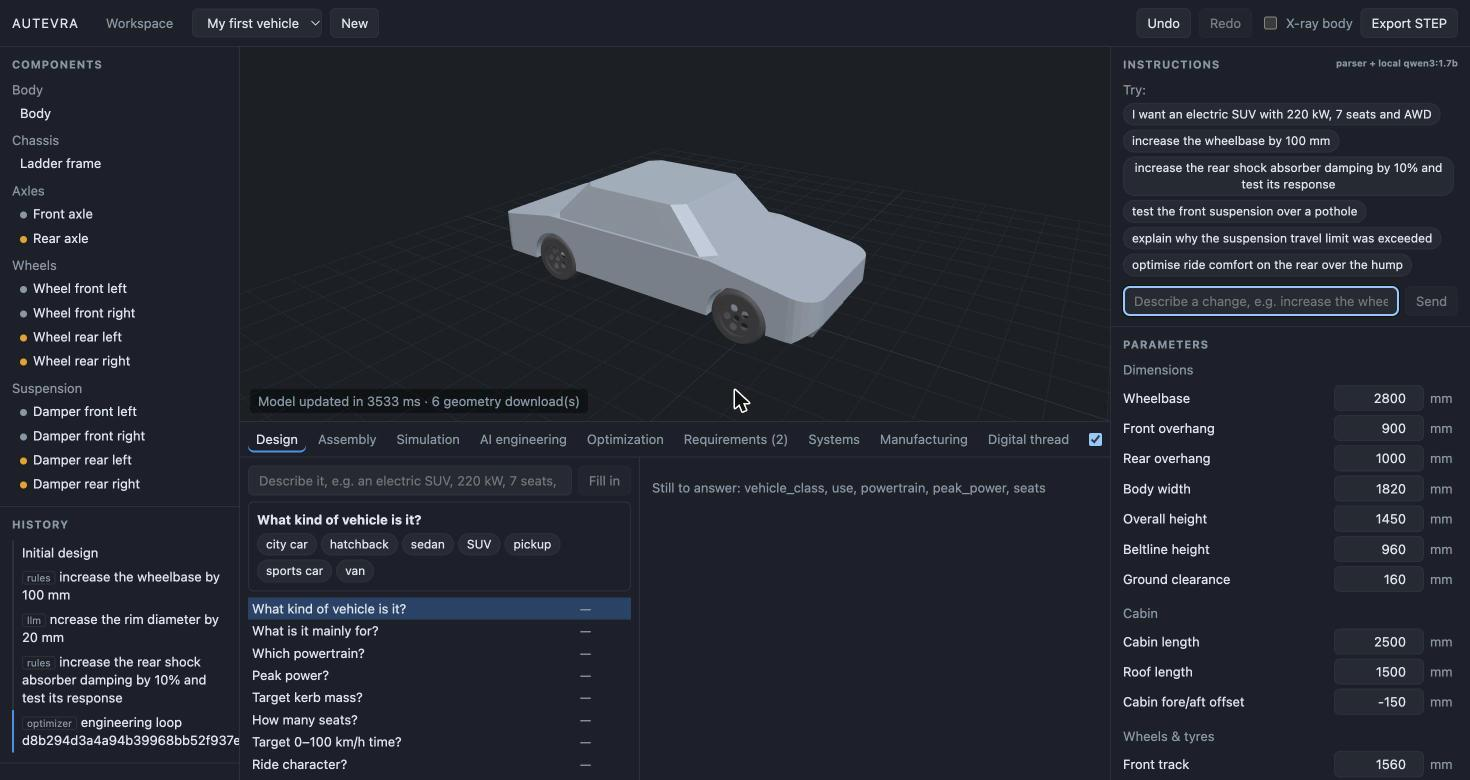
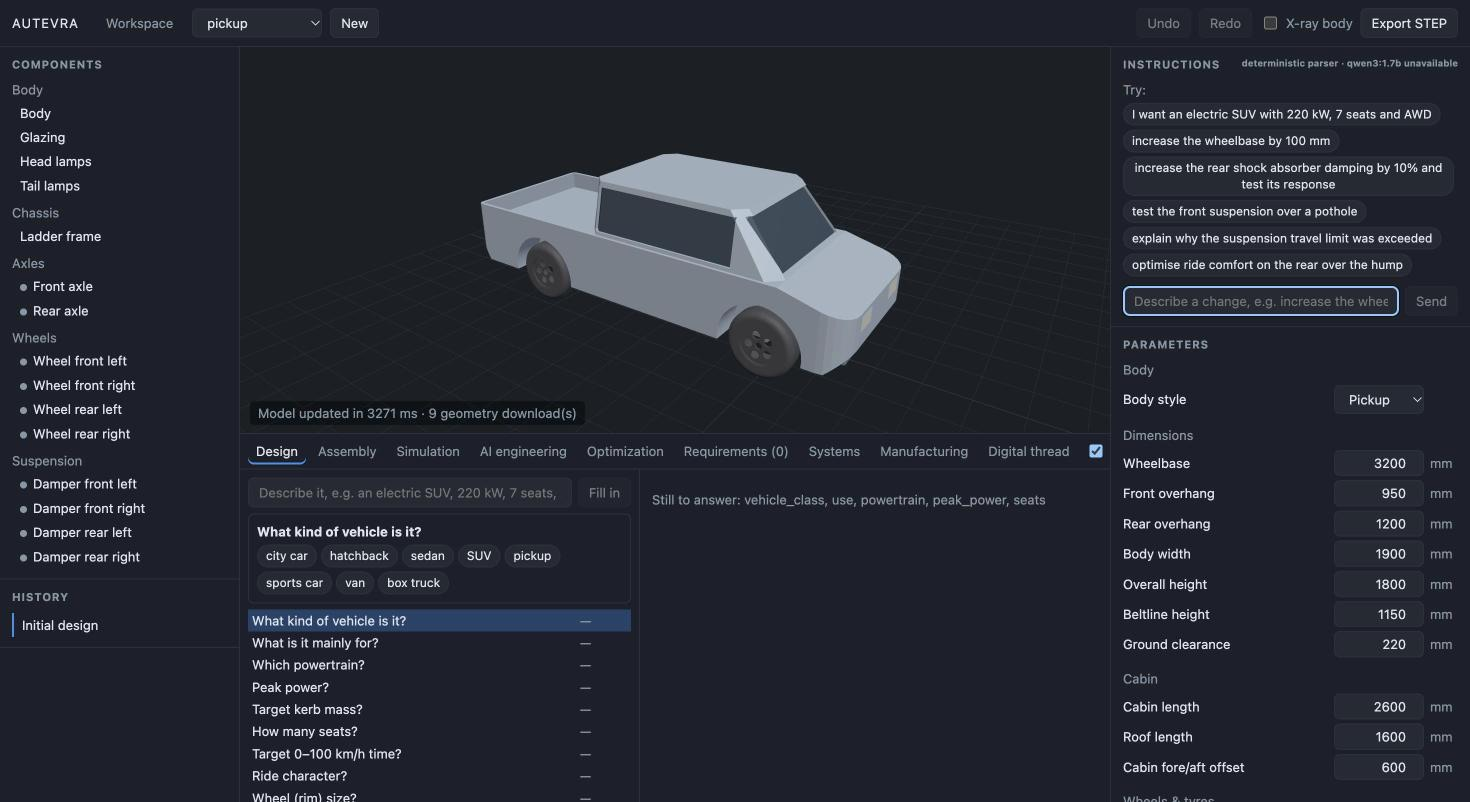
Make the coupe a real fastback and show the templates on the website
The coupe keeps a full roof and lets the rear screen run towards the tail. The home page
gains a gallery of the eight templates and a new studio hero, rendered from this build.

diff --git a/frontend/src/site/pages.tsx b/frontend/src/site/pages.tsx
@@ -17,6 +17,11 @@ function Section({ title, kicker, children, id }: {
   );
 }
 
+const BODY_GALLERY: [string, string][] = [
+  ["city_car", "City car"], ["hatchback", "Hatchback"], ["sedan", "Sedan"], ["suv", "SUV"],
+  ["coupe", "Sports car (fastback)"], ["pickup", "Pickup"], ["van", "Van"], ["box_truck", "Box truck"],
+];
+
 function Shot({ src, alt, caption }: { src: string; alt: string; caption: string }) {
   return (
     <figure className="shot">
@@ -66,7 +71,7 @@ export function Home() {
           <Link to="/studio" className="button large">Open Engineering Studio</Link>
         </div>
         <Shot src="/screenshots/studio-design.jpg" alt="The AUTEVRA engineering studio"
-          caption="The engineering studio: parametric CAD model, component tree, instructions and test bench (screenshot of this build)." />
+          caption="The engineering studio on the pickup template: parametric CAD model, component tree, instructions and parameters (screenshot of this build)." />
       </section>
 
       <Section kicker="What it is" title="An engineering record you can talk to">
@@ -94,6 +99,21 @@ export function Home() {
             rebuilt or moved, nothing else. The viewport can play back simulations from the
             solver's own output.</p>
           <Shot src="/screenshots/studio-assembly.jpg" alt="Integration checks" caption="Integration checks with exact clearances measured on the CAD solids." />
+        </div>
+      </Section>
+
+      <Section kicker="One parametric model" title="Eight vehicle templates, seven body styles">
+        <p className="narrow">Each template is the design the specification interview generates
+          for its class: body style, proportions, wheels, springs and dampers, rule-checked. The
+          body style is a parameter like any other ("make it a pickup"), so the same model becomes
+          a hatchback, an SUV, a pickup with an open bed or a box truck. Renders of this build.</p>
+        <div className="style-gallery">
+          {BODY_GALLERY.map(([file, label]) => (
+            <figure key={file}>
+              <img src={`/screenshots/body-${file}.jpg`} alt={`${label} template`} loading="lazy" />
+              <figcaption>{label}</figcaption>
+            </figure>
+          ))}
         </div>
       </Section>
 

diff --git a/frontend/src/site.css b/frontend/src/site.css
@@ -105,3 +105,8 @@ a.brand { color: var(--text); text-decoration: none; }
 .backend-waking { position: fixed; left: 50%; bottom: 16px; transform: translateX(-50%); z-index: 50;
   max-width: calc(100vw - 32px); padding: 10px 14px; border-radius: 8px; font-size: 13px;
   background: var(--panel); color: var(--text); border: 1px solid var(--accent); box-shadow: 0 6px 24px #0006; }
+
+.style-gallery { display: grid; grid-template-columns: repeat(auto-fill, minmax(220px, 1fr)); gap: 12px; margin-top: 16px; }
+.style-gallery figure { margin: 0; background: var(--panel); border: 1px solid var(--line); border-radius: 10px; overflow: hidden; }
+.style-gallery img { display: block; width: 100%; height: auto; aspect-ratio: 462 / 192; object-fit: cover; }
+.style-gallery figcaption { padding: 8px 12px; font-size: 13px; color: var(--muted); }

diff --git a/backend/autevra/domains/automotive/builders.py b/backend/autevra/domains/automotive/builders.py
@@ -112,12 +112,14 @@ def body_layout(p: Inputs) -> BodyLayout:
         return BodyLayout(style, profile, (back, cowl), roof, top)
 
     if style == "coupe":
+        # Fastback: a full roof, then a long, shallow rear screen running far towards the tail.
         tail = min(max(floor + 0.82 * depth, arch_top + 40.0), belt - 10.0)
         roof_front = cowl - rake
-        roof = clamp_roof(roof_front - 0.6 * p["roof_length"], roof_front)
-        profile = [*front_end, (front, nose_at(0.55)), (cowl, belt), (deck, belt),
+        roof = clamp_roof(roof_front - p["roof_length"], roof_front)
+        back = max(rear + 0.12 * length, min(deck, roof[0]) - 1.2 * glass_h)
+        profile = [*front_end, (front, nose_at(0.55)), (cowl, belt), (back, belt),
                    (rear, tail), (rear, tail_low)]  # fmt: skip
-        return BodyLayout(style, profile, (deck, cowl), roof, top)
+        return BodyLayout(style, profile, (back, cowl), roof, top)
 
     if style == "pickup":
         cab_rear = deck

diff --git a/backend/tests/cad/test_body_styles.py b/backend/tests/cad/test_body_styles.py
@@ -33,9 +33,9 @@ def test_two_box_styles_carry_the_roof_further_back_than_a_sedan() -> None:
     assert hatch.glass[0] < sedan.glass[0]
 
 
-def test_a_coupe_roof_is_shorter_than_the_sedan_roof() -> None:
+def test_a_coupe_rear_screen_runs_further_back_than_a_sedan_one() -> None:
     sedan, coupe = c.body_layout(_inputs("sedan")), c.body_layout(_inputs("coupe"))
-    assert coupe.roof[1] - coupe.roof[0] < sedan.roof[1] - sedan.roof[0]
+    assert coupe.roof[0] - coupe.glass[0] > 1.5 * (sedan.roof[0] - sedan.glass[0])
 
 
 def test_only_the_pickup_has_an_open_bed_behind_the_cab() -> None:

diff --git a/docs/ROADMAP.md b/docs/ROADMAP.md
@@ -154,6 +154,9 @@ specification interview moves to Phase 5.
 - **Warm-up.** Hosted instances build the default geometry at startup (`AUTEVRA_WARM_UP`).
 - Checked on the live site (Chrome): a new project in a browser workspace, "make it a pickup" rebuilt body and glazing in 6.3 s on the free instance; the first model took 34 s.
 
+- **Coupe as a real fastback**: full roof and a long, shallow rear screen (the first version had a short roof that read as a box on a deck; caught on the renders).
+- **Website**: a home-page gallery of the eight templates and a new studio hero, all renders of this build.
+
 **Known limitations**
 - Shapes are still faceted (ruled lofts and prisms); no curved surfaces, doors or mirrors.
 - A van's greenhouse and a box truck's cargo box are sized from the overall dimensions, not from the cabin parameters.
